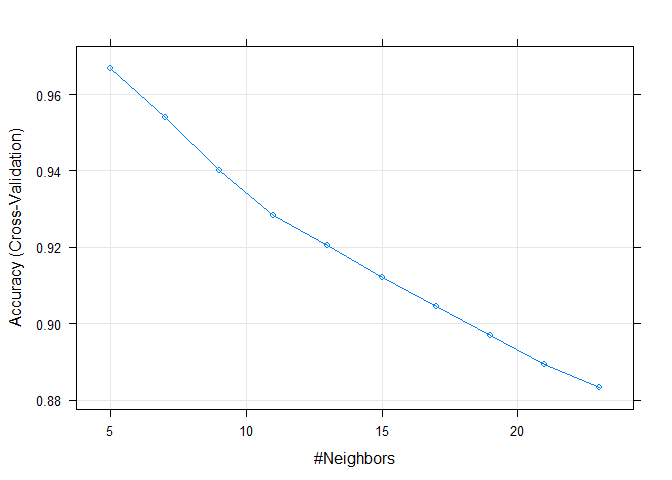
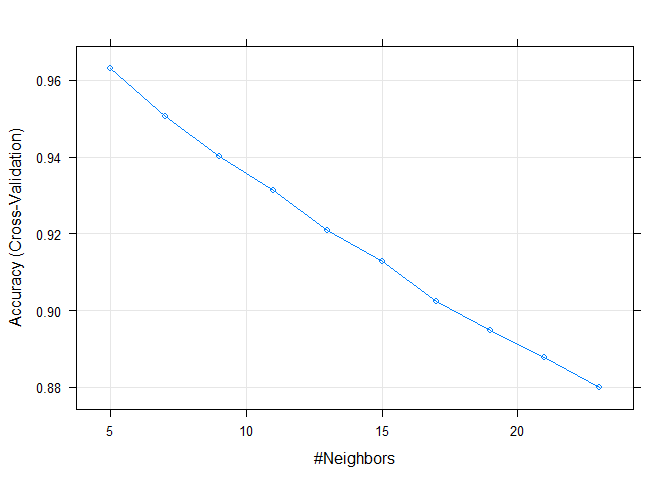
final

diff --git a/pml-project.html b/pml-project.html
@@ -92,7 +92,7 @@ cols &lt;- ncol(pml)</code></pre>
 <div id="partitioning-the-data" class="section level3">
 <h3>Partitioning the Data</h3>
 <p>We will partition the original dataset into training and testing sets, 75% and 25%, respectively.</p>
-<pre class="r"><code>set.seed(40505)
+<pre class="r"><code>set.seed(10505)
 inTrain &lt;- createDataPartition(y = pml$classe, p = .75, list = FALSE)
 training &lt;- pml[inTrain,]
 testing &lt;- pml[-inTrain,]</code></pre>
@@ -107,21 +107,38 @@ testing &lt;- pml[-inTrain,]</code></pre>
                  tuneLength = 10,
                  trControl = trainControl(method = &quot;cv&quot;))
 
-summary(knnFit)</code></pre>
-<pre><code>##             Length Class      Mode     
-## learn        2     -none-     list     
-## k            1     -none-     numeric  
-## theDots      0     -none-     list     
-## xNames      52     -none-     character
-## problemType  1     -none-     character
-## tuneValue    1     data.frame list     
-## obsLevels    5     -none-     character</code></pre>
-<p>For k = 5, the accuracy was 96.7%.</p>
+knnFit</code></pre>
+<pre><code>## k-Nearest Neighbors 
+## 
+## 14718 samples
+##    52 predictor
+##     5 classes: 'A', 'B', 'C', 'D', 'E' 
+## 
+## Pre-processing: centered, scaled 
+## Resampling: Cross-Validated (10 fold) 
+## Summary of sample sizes: 13246, 13246, 13247, 13245, 13245, 13248, ... 
+## Resampling results across tuning parameters:
+## 
+##   k   Accuracy   Kappa      Accuracy SD  Kappa SD   
+##    5  0.9629719  0.9531520  0.003884553  0.004923691
+##    7  0.9506748  0.9375803  0.005222228  0.006619933
+##    9  0.9402109  0.9243324  0.007110269  0.009007607
+##   11  0.9311740  0.9128889  0.007601139  0.009646022
+##   13  0.9207772  0.8997230  0.007201140  0.009152958
+##   15  0.9126921  0.8894854  0.008346299  0.010601282
+##   17  0.9025027  0.8765767  0.008645326  0.010977378
+##   19  0.8948922  0.8669469  0.008548272  0.010849077
+##   21  0.8878939  0.8580893  0.007397837  0.009397475
+##   23  0.8800806  0.8481948  0.007578669  0.009620575
+## 
+## Accuracy was used to select the optimal model using  the largest value.
+## The final value used for the model was k = 5.</code></pre>
+<p>For k = 5, the accuracy was 96.3%.</p>
 </div>
 <div id="cross-validation-plot" class="section level3">
 <h3>Cross-Validation Plot</h3>
 <pre class="r"><code>plot(knnFit)</code></pre>
[2 lines of base64/hex data omitted]
 <p>The plot clearly shows that for k &gt; 5, the model results in progressively worsening accuracy. This makes sense since our dataset consists of only 5 classes: {A, B, C, D, E}</p>
 </div>
 <div id="predicting-on-the-testing-set" class="section level3">
@@ -132,34 +149,34 @@ summary(knnFit)</code></pre>
 ## 
 ##           Reference
 ## Prediction    A    B    C    D    E
-##          A 1379   13    1    2    0
-##          B    6  917   12    0    9
-##          C    2   13  828   33    4
-##          D    4    3   11  763    3
-##          E    4    3    3    6  885
+##          A 1378   33    2    2    1
+##          B    7  885    4    0    7
+##          C    2   27  833   26    6
+##          D    4    0   14  774    6
+##          E    4    4    2    2  881
 ## 
 ## Overall Statistics
 ##                                           
-##                Accuracy : 0.9731          
-##                  95% CI : (0.9682, 0.9774)
+##                Accuracy : 0.9688          
+##                  95% CI : (0.9635, 0.9735)
 ##     No Information Rate : 0.2845          
 ##     P-Value [Acc &gt; NIR] : &lt; 2.2e-16       
 ##                                           
-##                   Kappa : 0.966           
-##  Mcnemar's Test P-Value : 0.004074        
+##                   Kappa : 0.9605          
+##  Mcnemar's Test P-Value : NA              
 ## 
 ## Statistics by Class:
 ## 
 ##                      Class: A Class: B Class: C Class: D Class: E
-## Sensitivity            0.9885   0.9663   0.9684   0.9490   0.9822
-## Specificity            0.9954   0.9932   0.9872   0.9949   0.9960
-## Pos Pred Value         0.9885   0.9714   0.9409   0.9732   0.9822
-## Neg Pred Value         0.9954   0.9919   0.9933   0.9900   0.9960
+## Sensitivity            0.9878   0.9326   0.9743   0.9627   0.9778
+## Specificity            0.9892   0.9954   0.9849   0.9941   0.9970
+## Pos Pred Value         0.9732   0.9801   0.9318   0.9699   0.9866
+## Neg Pred Value         0.9951   0.9840   0.9945   0.9927   0.9950
 ## Prevalence             0.2845   0.1935   0.1743   0.1639   0.1837
-## Detection Rate         0.2812   0.1870   0.1688   0.1556   0.1805
-## Detection Prevalence   0.2845   0.1925   0.1794   0.1599   0.1837
-## Balanced Accuracy      0.9920   0.9797   0.9778   0.9719   0.9891</code></pre>
-<p>The Confusion Matrix shows an accuracy of 97.3% on the <code>testing</code> dataset. And the error rate is 2.7%.</p>
+## Detection Rate         0.2810   0.1805   0.1699   0.1578   0.1796
+## Detection Prevalence   0.2887   0.1841   0.1823   0.1627   0.1821
+## Balanced Accuracy      0.9885   0.9640   0.9796   0.9784   0.9874</code></pre>
+<p>The Confusion Matrix shows an accuracy of 96.9% on the <code>testing</code> dataset. And the error rate is 3.1%.</p>
 </div>
 
 

diff --git a/pml-project.md b/pml-project.md
@@ -1,0 +1,155 @@
+# Human Activity Recognition ML Project
+Vladimir Goldin  
+August 22, 2015  
+
+### Background
+
+Six young healthy participants were asked to perform one set of 10 repetitions of the Unilateral Dumbbell Biceps Curl in five different fashions: exactly according to the specification (Class A), throwing the elbows to the front (Class B), lifting the dumbbell only halfway (Class C), lowering the dumbbell only halfway (Class D) and throwing the hips to the front (Class E).  
+Read more: <http://groupware.les.inf.puc-rio.br/har#ixzz3jcYf6pTX>
+
+In this project, we will attempt to use the HAR dataset to correctly classify the fashion in which the Unilateral Dumbbell Biceps Curl exercise was performed.
+
+### Load the data
+
+
+```r
+library(caret)
+```
+
+```
+## Loading required package: lattice
+## Loading required package: ggplot2
+```
+
+```r
+pml_full <- read.csv("pml-training.csv")
+```
+
+### Feature Extraction
+
+`str(pml_full)` reveals that many features have `NA` or `#DIV/0!` values. Furthermore, some features are irrelevant for the prediction model (such as features `X`, `user_name`, etc.). And upon closer inspection, many others are derived from the collected instrument data, such as `avg`, `stddev`, etc. 
+
+So, to complete the feature extraction, we will keep only the primary instrument data, with the following derivative data removed: `avg`, `min`, `max`, `var`, `stddev`, `amplitude`, `kurtosis`, `skewness`
+
+
+```r
+pml <- pml_full[,-c(1:7, grep("amplitude|min|max|avg|var|stddev|skewness|kurtosis", names(pml_full), ignore.case = TRUE))]
+
+cols <- ncol(pml)
+```
+
+As a result, of the 160 columns in the original dataset, we are left with 53 columns that we'll be using to build our prediction model.
+
+### Partitioning the Data
+
+We will partition the original dataset into training and testing sets, 75% and 25%, respectively.
+
+
+```r
+set.seed(10505)
+inTrain <- createDataPartition(y = pml$classe, p = .75, list = FALSE)
+training <- pml[inTrain,]
+testing <- pml[-inTrain,]
+```
+
+### Building a k-Nearest Neighbor Model with Cross-Validation
+
+We've attempted to fit the data using the Partial Least Squares model, which yielded an accuracy rate of only 38%. With such a dismal result, we've decided to abandon the linear regression route altogether.
+
+Instead, since we are dealing with a classification problem, the kNN Model seemed like a sensible choice.
+
+
+```r
+knnFit <- train(training[,1:(cols-1)], training[,cols],
+                 method = "knn",
+                 preProcess = c("center", "scale"),
+                 tuneLength = 10,
+                 trControl = trainControl(method = "cv"))
+
+knnFit
+```
+
+```
+## k-Nearest Neighbors 
+## 
+## 14718 samples
+##    52 predictor
+##     5 classes: 'A', 'B', 'C', 'D', 'E' 
+## 
+## Pre-processing: centered, scaled 
+## Resampling: Cross-Validated (10 fold) 
+## Summary of sample sizes: 13246, 13246, 13247, 13245, 13245, 13248, ... 
+## Resampling results across tuning parameters:
+## 
+##   k   Accuracy   Kappa      Accuracy SD  Kappa SD   
+##    5  0.9629719  0.9531520  0.003884553  0.004923691
+##    7  0.9506748  0.9375803  0.005222228  0.006619933
+##    9  0.9402109  0.9243324  0.007110269  0.009007607
+##   11  0.9311740  0.9128889  0.007601139  0.009646022
+##   13  0.9207772  0.8997230  0.007201140  0.009152958
+##   15  0.9126921  0.8894854  0.008346299  0.010601282
+##   17  0.9025027  0.8765767  0.008645326  0.010977378
+##   19  0.8948922  0.8669469  0.008548272  0.010849077
+##   21  0.8878939  0.8580893  0.007397837  0.009397475
+##   23  0.8800806  0.8481948  0.007578669  0.009620575
+## 
+## Accuracy was used to select the optimal model using  the largest value.
+## The final value used for the model was k = 5.
+```
+
+For k = 5, the accuracy was 96.3%.
+
+### Cross-Validation Plot
+
+
+```r
+plot(knnFit)
+```
+
+![](pml-project_files/figure-html/unnamed-chunk-5-1.png) 
+
+The plot clearly shows that for k > 5, the model results in progressively worsening accuracy. This makes sense since our dataset consists of only 5 classes: {A, B, C, D, E}
+
+### Predicting on the `testing` set
+
+
+```r
+test_knnFit <- predict(knnFit, newdata = testing[,1:(cols-1)])
+(conMat <- confusionMatrix(test_knnFit, testing[,cols]))
+```
+
+```
+## Confusion Matrix and Statistics
+## 
+##           Reference
+## Prediction    A    B    C    D    E
+##          A 1378   33    2    2    1
+##          B    7  885    4    0    7
+##          C    2   27  833   26    6
+##          D    4    0   14  774    6
+##          E    4    4    2    2  881
+## 
+## Overall Statistics
+##                                           
+##                Accuracy : 0.9688          
+##                  95% CI : (0.9635, 0.9735)
+##     No Information Rate : 0.2845          
+##     P-Value [Acc > NIR] : < 2.2e-16       
+##                                           
+##                   Kappa : 0.9605          
+##  Mcnemar's Test P-Value : NA              
+## 
+## Statistics by Class:
+## 
+##                      Class: A Class: B Class: C Class: D Class: E
+## Sensitivity            0.9878   0.9326   0.9743   0.9627   0.9778
+## Specificity            0.9892   0.9954   0.9849   0.9941   0.9970
+## Pos Pred Value         0.9732   0.9801   0.9318   0.9699   0.9866
+## Neg Pred Value         0.9951   0.9840   0.9945   0.9927   0.9950
+## Prevalence             0.2845   0.1935   0.1743   0.1639   0.1837
+## Detection Rate         0.2810   0.1805   0.1699   0.1578   0.1796
+## Detection Prevalence   0.2887   0.1841   0.1823   0.1627   0.1821
+## Balanced Accuracy      0.9885   0.9640   0.9796   0.9784   0.9874
+```
+
+The Confusion Matrix shows an accuracy of 96.9% on the `testing` dataset. And the error rate is 3.1%.
